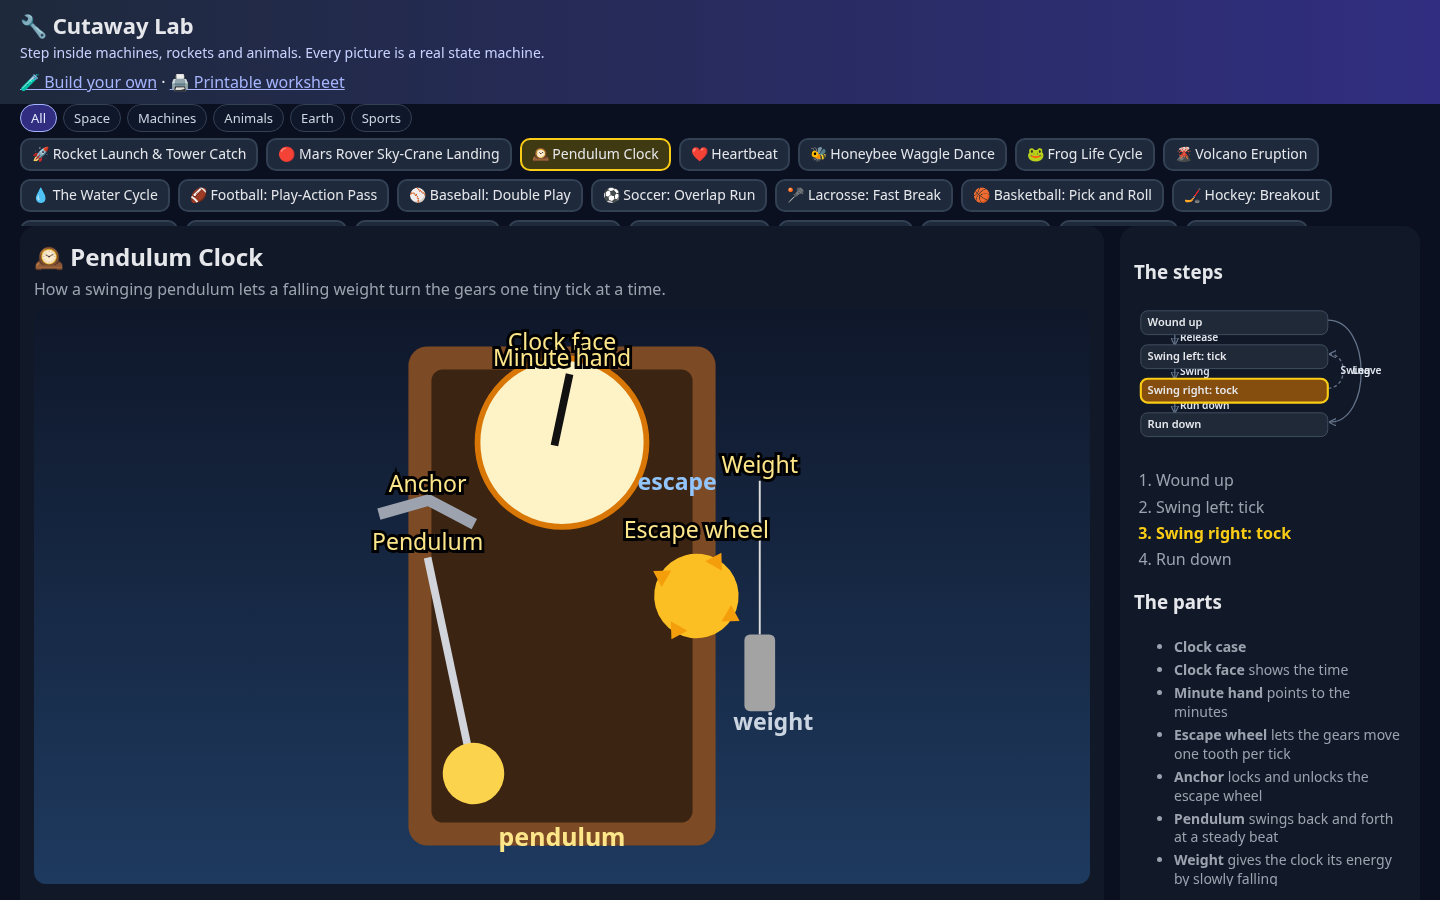
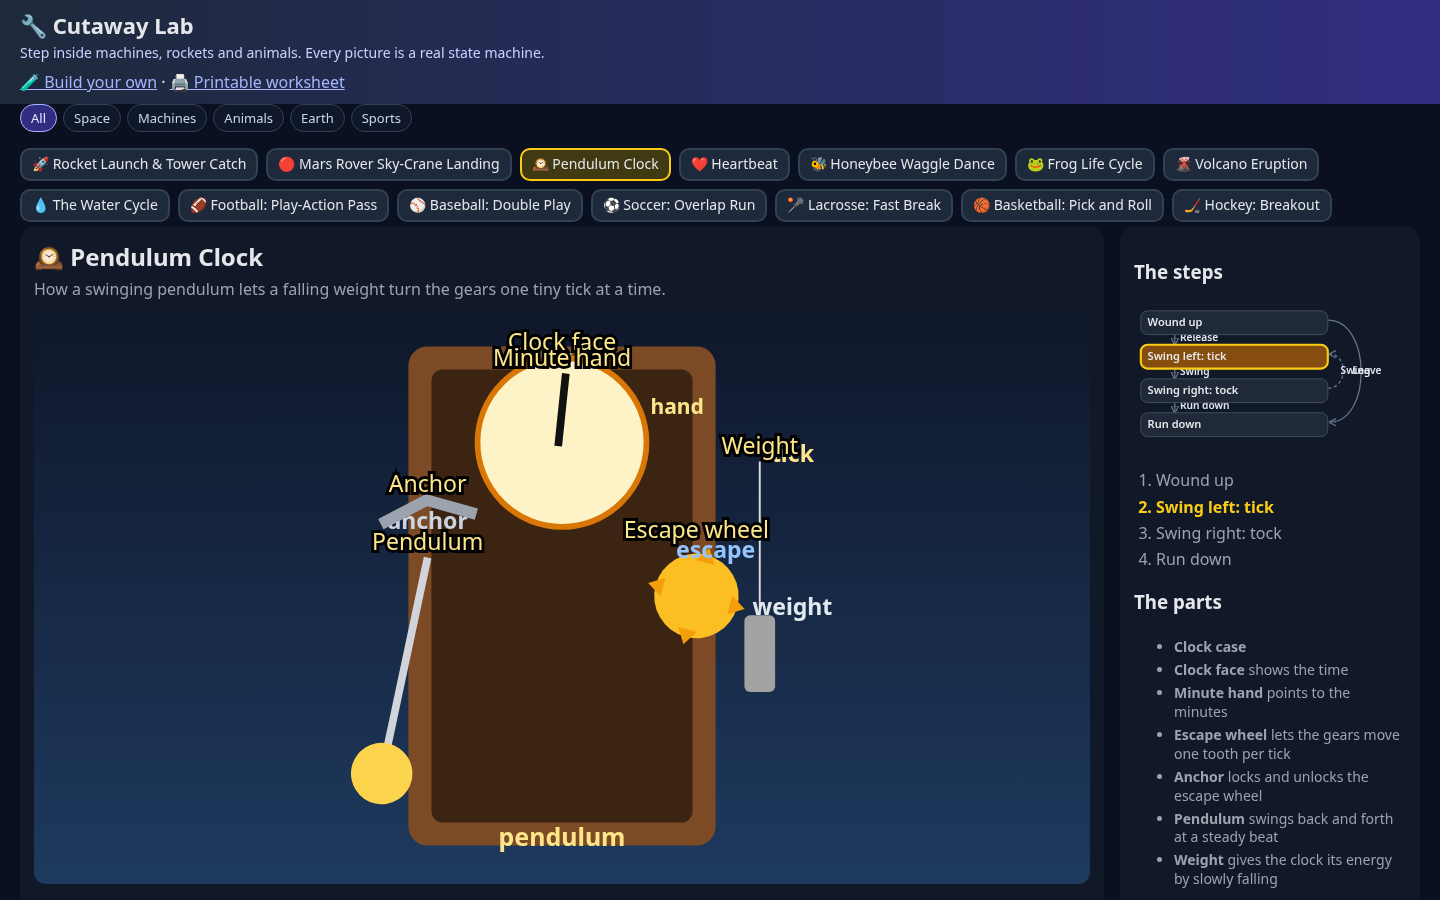
v1.0: clock exploded labels (face/anchor/hand/weight/escape); taller #parts panel

diff --git a/machines/clock.js b/machines/clock.js
@@ -8,6 +8,12 @@ export default {
     { id: 'lblTick', label: 'Tick label',
       svg: '<text x="320" y="80" text-anchor="middle" fill="#fde68a" font-size="12" font-weight="700">tick</text>', pose: { opacity: 0 } },
     { id: 'case', label: 'Clock case', svg: '<rect x="120" y="20" width="160" height="260" rx="10" fill="#7c4a24"/><rect x="132" y="32" width="136" height="236" rx="6" fill="#3b2412"/>' },
+    { id: 'lblFace', label: 'Face label',
+      svg: '<text x="200" y="30" text-anchor="middle" fill="#fde68a" font-size="12" font-weight="700">face</text>' },
+    { id: 'lblAnchor', label: 'Anchor label',
+      svg: '<text x="130" y="115" text-anchor="middle" fill="#cbd5e1" font-size="12" font-weight="700">anchor</text>' },
+    { id: 'lblHand', label: 'Hand label',
+      svg: '<text x="260" y="55" text-anchor="middle" fill="#fde68a" font-size="11" font-weight="700">hand</text>' },
     { id: 'face', label: 'Clock face', job: 'shows the time', svg: '<circle cx="200" cy="80" r="44" fill="#fef3c7" stroke="#d97706" stroke-width="3"/>', explode: [0, -10] },
     { id: 'hand', label: 'Minute hand', job: 'points to the minutes', svg: '<rect x="198" y="44" width="4" height="38" fill="#111"/>', pose: { x: 0 }, explode: [0, -10] },
     { id: 'wheel', label: 'Escape wheel', job: 'lets the gears move one tooth per tick', svg: '<g transform="translate(200 150)"><circle r="22" fill="#fbbf24"/><path d="M0 -26 L5 -18 L-5 -18Z M26 0 L18 5 L18 -5Z M0 26 L-5 18 L5 18Z M-26 0 L-18 -5 L-18 5Z" fill="#f59e0b"/></g>', explode: [70, 0] },
@@ -16,10 +22,10 @@ export default {
     { id: 'lblPendulum', label: 'Pendulum label',
       svg: '<text x="200" y="280" text-anchor="middle" fill="#fde68a" font-size="13" font-weight="700">pendulum</text>' },
     { id: 'lblEscape', label: 'Escape label',
-      svg: '<text x="260" y="95" text-anchor="middle" fill="#93c5fd" font-size="12" font-weight="700">escape</text>' },
+      svg: '<text x="280" y="130" text-anchor="middle" fill="#93c5fd" font-size="12" font-weight="700">escape</text>' },
     { id: 'weight', label: 'Weight', job: 'gives the clock its energy by slowly falling', svg: '<rect x="245" y="120" width="16" height="40" rx="3" fill="#a3a3a3"/><line x1="253" y1="40" x2="253" y2="120" stroke="#ddd"/>', explode: [50, 30] },
     { id: 'lblWeight', label: 'Weight label',
-      svg: '<text x="310" y="220" text-anchor="middle" fill="#cbd5e1" font-size="12" font-weight="700">weight</text>' },
+      svg: '<text x="320" y="160" text-anchor="middle" fill="#e2e8f0" font-size="12" font-weight="700">weight</text>' },
   ],
   states: {
     wound: { label: 'Wound up', caption: 'Someone winds the clock, lifting the heavy weight to the top.', on: { RELEASE: 'tickLeft', LEAVE: 'stopped' } },

diff --git a/src/style.css b/src/style.css
@@ -12,7 +12,7 @@ main{display:grid;grid-template-columns:minmax(0,1fr) 300px;gap:16px;padding:0 2
 button{font:inherit;cursor:pointer}#events button{background:#4f46e5;color:#fff;border:0;border-radius:10px;padding:8px 14px}
 .ctl button{background:#334155;color:#fff;border:0;border-radius:10px;padding:6px 12px}
 aside{background:#111827;border-radius:16px;padding:14px;max-height:calc(100vh - 180px);overflow-y:auto;scrollbar-width:thin}aside ol{padding-left:22px}aside li{margin:4px 0;color:#9ca3af}aside li.on{color:#facc15;font-weight:700}aside li.done{color:#86efac}
-#parts{max-height:28vh;overflow-y:auto;padding-right:4px;scrollbar-width:thin}#parts li{cursor:help;font-size:14px;line-height:1.35}pre{white-space:pre-wrap;font-size:12px;color:#a5b4fc}
+#parts{max-height:32vh;overflow-y:auto;padding-right:4px;scrollbar-width:thin}#parts li{cursor:help;font-size:14px;line-height:1.35}pre{white-space:pre-wrap;font-size:12px;color:#a5b4fc}
 dialog{background:#1e293b;color:#e5e7eb;border:2px solid #facc15;border-radius:16px;max-width:460px;width:92vw}#qchoices button{display:block;width:100%;margin:6px 0;padding:10px;border-radius:10px;border:1px solid #475569;background:#0f172a;color:#e5e7eb;text-align:left}
 #qchoices button.right{background:#14532d}#qchoices button.wrong{background:#7f1d1d}
 @media (max-width:760px){main{grid-template-columns:1fr;padding:0 10px 10px}#caption{font-size:17px}nav{flex-wrap:nowrap;max-height:none;padding:10px;gap:8px}nav button{flex:0 0 auto;white-space:nowrap;font-size:14px;padding:8px 12px}#chart{max-height:40vh}#stage{min-height:300px;max-height:52vh}header p{display:none}header{padding-bottom:4px}.topics{padding:0 10px 4px;gap:4px;flex-wrap:nowrap;overflow-x:auto;-webkit-overflow-scrolling:touch}.topics button{flex:0 0 auto;font-size:11px;padding:3px 7px}#title{font-size:22px}}
